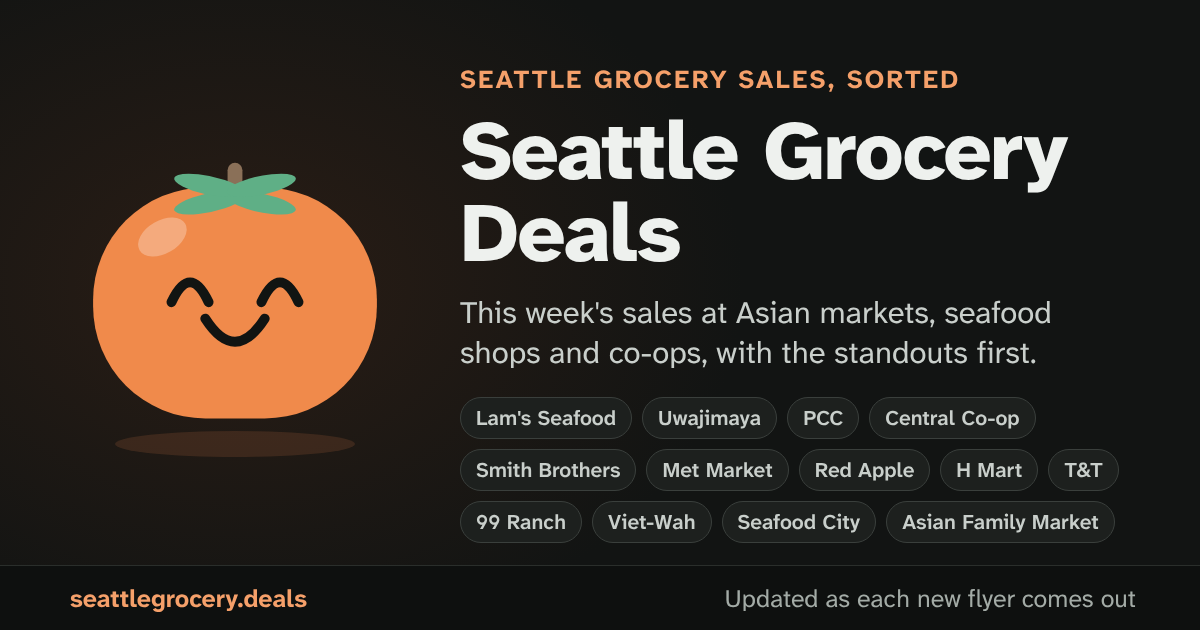
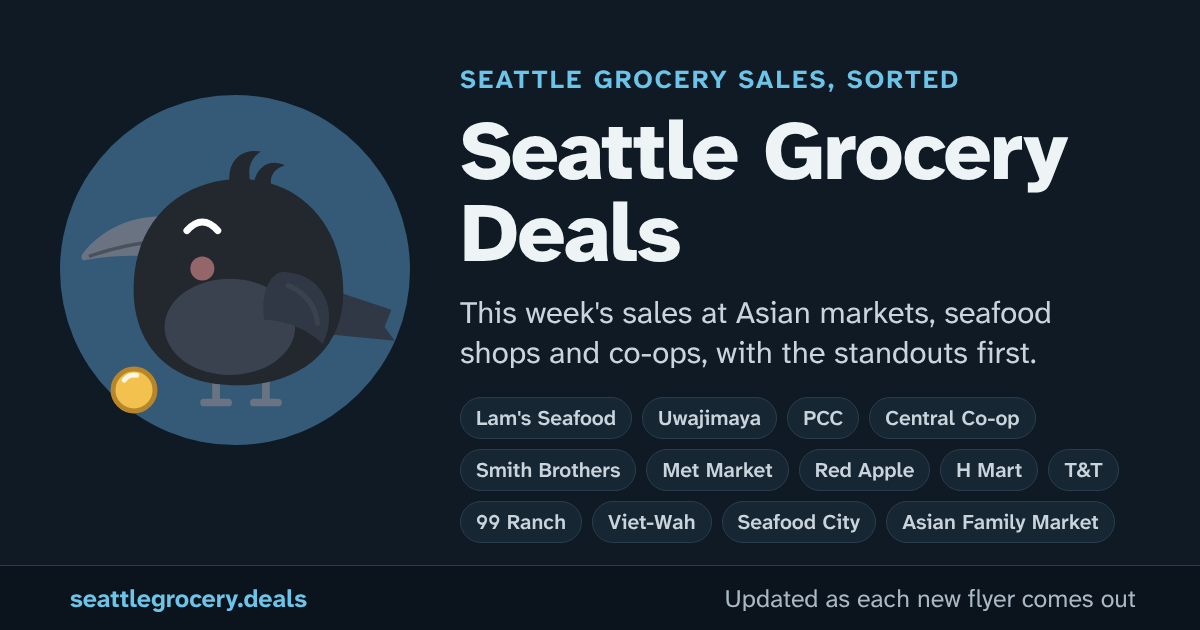
Rebrand the site: the crow and the Puget evening palette
The crow replaces the persimmon as the mascot (scripts/buddy.mjs, all six
moods), on the new harbor-blue neutrals with a rain-blue accent; every text
pair meets AA in light and dark. New logo, favicons, touch and manifest
icons (the crow on evening blue, with his coin on the big ones), theme
colors and default share image. The persimmon stays for persimmon season.

Claude-Session: https://claude.ai/code/session_015KDcQGGnkrQkU5J1rsfhEe

diff --git a/site/assets/style.css b/site/assets/style.css
@@ -1,7 +1,8 @@
 /* Seattle Grocery Deals, in the Deals app's look (KitchenUI): Atkinson Hyperlegible Next only,
-   quiet neutral ground, white cards, one persimmon accent (Palette.Accent.persimmon, the fruit
-   on the icon; Maitake keeps the green), and tones that always pair a shape with a word.
-   Values mirror KitchenUI's Palette.swift, Type.swift and Components.swift. */
+   the "Puget evening" palette (harbor blue neutrals, one rain-blue accent, a gold coin for the
+   crow), and tones that always pair a shape with a word. The crow is the mascot (2026-11-06;
+   the persimmon before it now only stands for persimmon season).
+   Values mirror KitchenUI's Palette.swift (Neutrals.harbor, Accent.rain) and Crow.swift. */
 @font-face {
   font-family: "Atkinson Hyperlegible Next";
   src: url("fonts/atkinson-hyperlegible-next.woff2") format("woff2");
@@ -11,24 +12,26 @@
 
 :root {
   /* neutrals */
-  --ground: light-dark(#f4f4f1, #121413);
-  --surface: light-dark(#ffffff, #1d201e);
-  --raised: light-dark(#e9eae6, #2a2e2b);
-  --ink: light-dark(#1b1f1d, #eef1ee);
-  --text-body: light-dark(#4a514d, #c9cfcb);
-  --muted: light-dark(#5e6661, #a3aba6);
-  --line: light-dark(#d5d7d1, #3a3f3c);
-  --divider: light-dark(#ecece8, #2a2e2b);
-  --accent: light-dark(#b04418, #f5a06a);
-  --on-accent: light-dark(#ffffff, #2a1208);
+  --ground: light-dark(#eef3f6, #0f1a24);
+  --surface: light-dark(#ffffff, #172633);
+  --raised: light-dark(#e1e9ef, #223445);
+  --ink: light-dark(#0f1a24, #eef3f6);
+  --text-body: light-dark(#3a4a57, #c9d4dc);
+  --muted: light-dark(#536472, #a9b8c4);
+  --line: light-dark(#ccd7e0, #2a3d4e);
+  --divider: light-dark(#e3eaf0, #1e2f3e);
+  --accent: light-dark(#24577a, #6cc4e8);
+  --on-accent: light-dark(#ffffff, #0f1a24);
   --focus: light-dark(#2c639a, #8dbce8);
   /* tones: fill behind text, text on the fill, and a stronger mark */
   --good-fill: light-dark(#e3efe8, #1c3529); --good-text: light-dark(#1f4d37, #a6dcbf); --good-mark: light-dark(#2f6b4f, #7cc4a0);
   --warn-fill: light-dark(#fbeed0, #3a2e12); --warn-text: light-dark(#6e4700, #f2c66d); --warn-mark: light-dark(#8a5a00, #e8b44f);
   --bad-fill: light-dark(#fadfd6, #3d1f17); --bad-text: light-dark(#85290f, #ffad94); --bad-mark: light-dark(#a3361a, #ff8c6e);
-  --neutral-fill: light-dark(#e9eae6, #2a2e2b); --neutral-text: light-dark(#454c48, #c9cfcb); --neutral-mark: light-dark(#5e6661, #a3aba6);
+  --neutral-fill: light-dark(#e1e9ef, #223445); --neutral-text: light-dark(#3a4a57, #c9d4dc); --neutral-mark: light-dark(#536472, #a9b8c4);
   --info-fill: light-dark(#e1ecf7, #1a2a3a); --info-text: light-dark(#1e4a73, #a8ccf0); --info-mark: light-dark(#2c639a, #8dbce8);
-  /* the persimmon buddy */
+  /* the crow (KitchenUI CrowColors), and the persimmon for persimmon season */
+  --cr-body: light-dark(#23272e, #38444f); --cr-sheen: light-dark(#3a4250, #4d5d72); --cr-wing: light-dark(#303846, #445162); --cr-beak: light-dark(#5a6270, #a3afbd);
+  --coin: #f2c14e; --evening: #345a78;
   --bd-fruit: light-dark(#e8743b, #f08a4b); --bd-leaf: light-dark(#2f6b4f, #5faf86); --bd-stem: light-dark(#5b4632, #8a7058); --bd-face: light-dark(#1b1f1d, #111412);
   /* radius and space */
   --r-s: 10px; --r-m: 14px; --r-l: 18px;
@@ -235,8 +238,15 @@ html.veg-on [data-meat-only] { display: none; }
 .unread-card a { font-weight: 700; min-height: 44px; display: inline-flex; align-items: center; }
 .elsewhere { margin-top: var(--s-xl); }
 
-/* the persimmon buddy (KitchenUI Buddy) */
+/* the crow and the persimmon (KitchenUI Buddy, scripts/buddy.mjs) */
 .buddy { flex: none; overflow: visible; }
+.cr-body { fill: var(--cr-body); }
+.cr-sheen { fill: var(--cr-sheen); }
+.cr-wing { fill: var(--cr-wing); }
+.cr-beak { fill: var(--cr-beak); }
+.cr-line { fill: none; stroke: var(--cr-body); stroke-width: 2; stroke-linecap: round; opacity: 0.45; }
+.cr-wing-line { fill: none; stroke: var(--cr-sheen); stroke-width: 3; stroke-linecap: round; }
+.cr-feet { fill: none; stroke: var(--cr-beak); stroke-width: 4.5; stroke-linecap: round; }
 .bd-fruit { fill: var(--bd-fruit); }
 .bd-shine { fill: #ffffff; opacity: 0.28; }
 .bd-stem { fill: var(--bd-stem); }

diff --git a/HANDOFF.md b/HANDOFF.md
@@ -47,7 +47,8 @@ Updated 2026-11-07.
 - **Scope:** Seattle-area stores only. Specialty grocers the big chains' apps skip: Asian markets, seafood shops, co-ops. No mainstream chains (Grocery Outlet was dropped). No flyer aggregators such as Flipp: every store is read from its own site.
 - **PCC:** its site blocks automated reading (Cloudflare). Do not try to get around the bot check. Options are asking PCC for a feed, reading it by hand, or marking it unreadable. Since 2026-10-29 the Friday routine skips PCC entirely (owner's call); it stays on the site's store list.
 - **Design system:** "Newsprint". Tokens live at the top of `site/assets/style.css`.
-  - Colors (since the KitchenUI redesign): the shared neutrals (ground `#f4f4f1`, ink `#1b1f1d`, muted `#5e6661`), the persimmon accent `#b04418` (dark `#f5a06a`, 2026-11-01), and the tones that always pair a shape with a word: warn for Standout, good (green) for "% off", info for "under US avg". Dark mode is defined there too. The older evergreen/yellow-tag scheme is gone.
+  - Colors: the "Puget evening" palette (2026-11-06): harbor blue neutrals (ground `#eef3f6` / dark `#0f1a24`, ink `#0f1a24` / `#eef3f6`, muted `#536472` / `#a9b8c4`), the rain-blue accent `#24577a` (dark `#6cc4e8`), the evening blue `#345a78` behind the crow on icons, and the coin gold `#f2c14e`. Tones that always pair a shape with a word: warn for Standout, good (green) for "% off", info for "under US avg". All text pairs meet AA in both modes. KitchenUI: `Palette.use(.rain, neutrals: .harbor)`.
+  - Mascot: the crow (Seattle crows remember where the good stuff is), round like Henwood's hen, with a coin. `scripts/buddy.mjs` on the site, `Buddy(.crow)` / `CrowBuddy` in KitchenUI. The persimmon was the mascot before; it now only stands for persimmon season. Icons are drawn in SVG; the source is on the "Seattle Grocery Deals crow explorations" design canvas.
   - Type: Atkinson Hyperlegible Next for everything, self-hosted, because the privacy notice says fonts come from the site. (Barlow Condensed was dropped with the KitchenUI redesign.)
   - Color carries meaning only, and never alone: every tone pairs a shape or word with its fill. Rainbow and queer flair are saved for the app icon, not the interface.
   - Accessibility is a requirement: AA contrast in light and dark, 44px tap targets, prices read as "per pound" to screen readers, visible focus.
